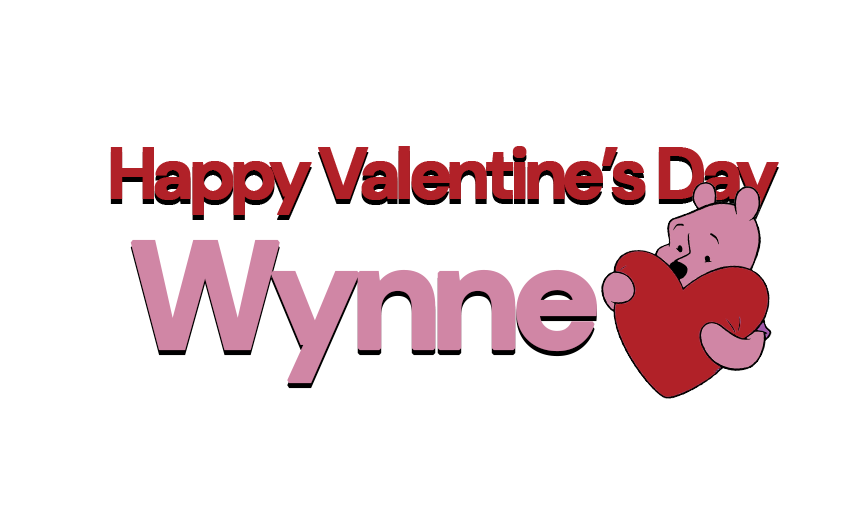
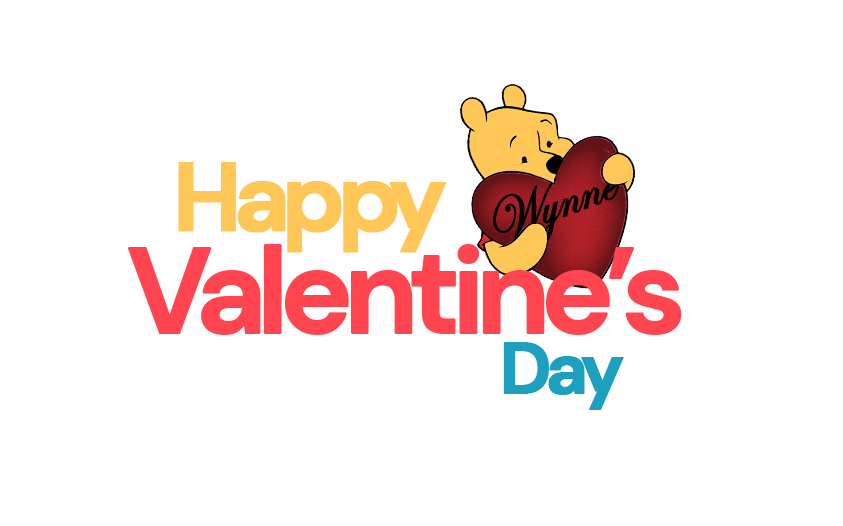
nice!
nice!

Changed region(s): [[0.1234, 0.1521, 0.9253, 0.7909]]

diff --git a/gallery/gallery/src/Gallery.js b/gallery/gallery/src/Gallery.js
@@ -52,7 +52,7 @@ const Gallery = () => {
       
     </div>
     <div >
-    
+    <img   style = {{position: "absolute", bottom:0, marginLeft :"-5vw", marginBottom: "-3vh",display: "flex", height: 60 * .527+ 'vh', width: 60 * .843 + 'vh'}} src = {HVW} alt = "" /> 
     </div>
     <audio controls loop autoPlay>
         <source src= {skel} type="audio/mpeg" />
